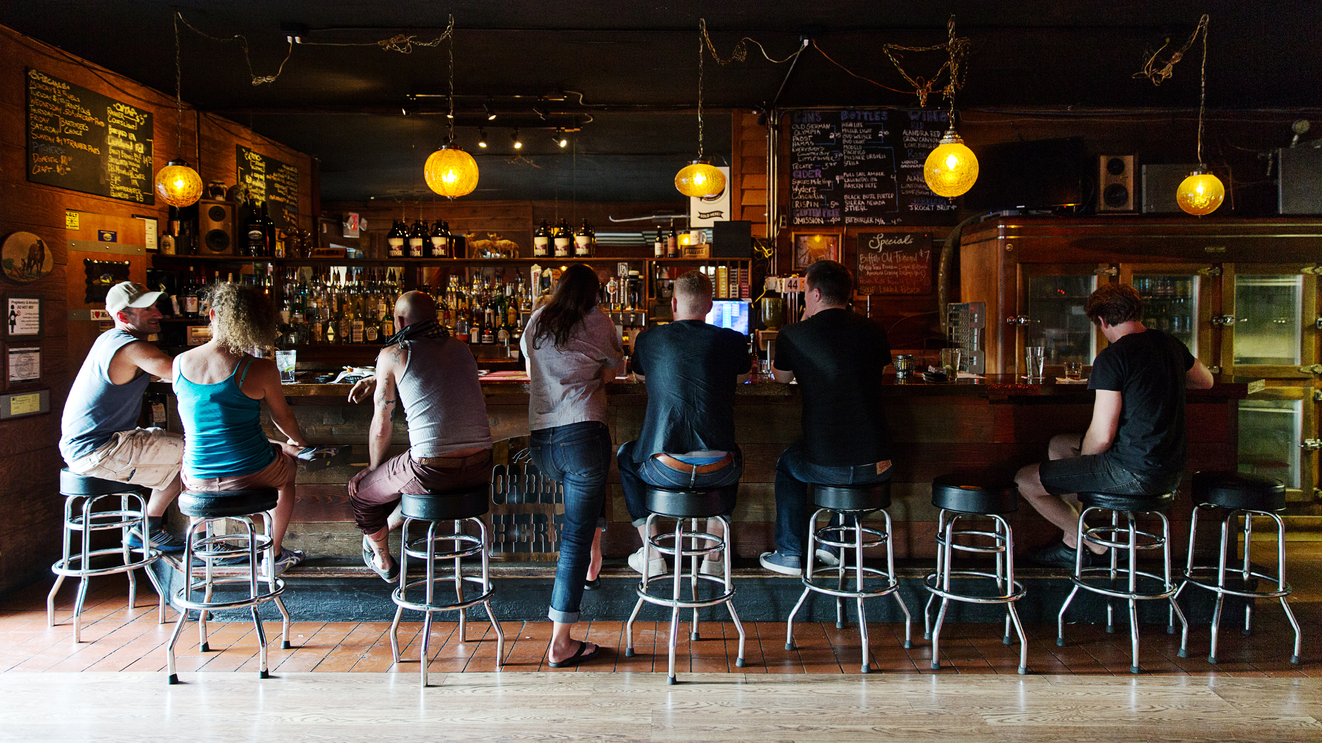
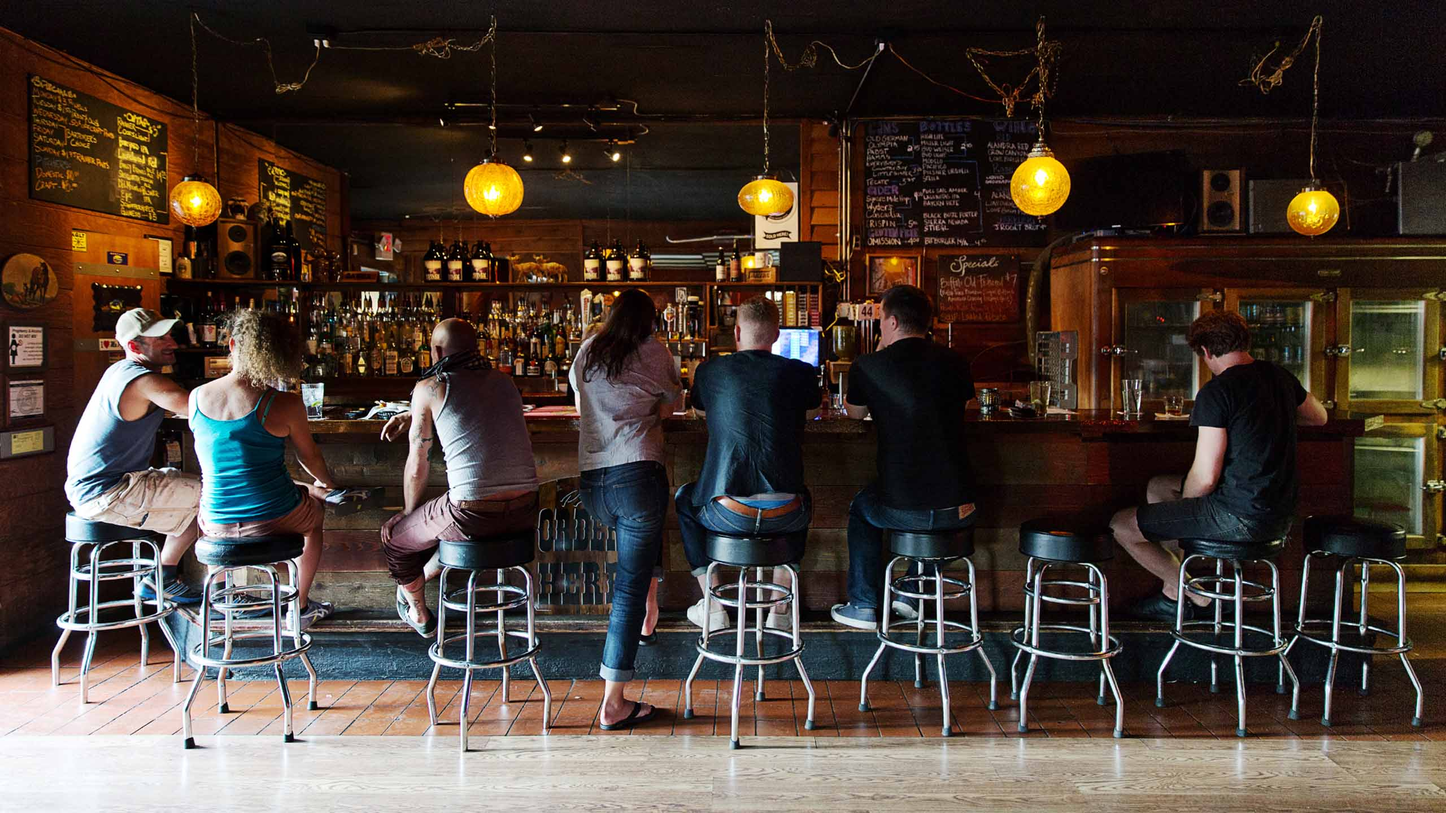
resize images and lower quality for load time, refactor css/html to abstract away styling from html

diff --git a/index.html b/index.html
@@ -63,7 +63,7 @@
       </div>
       <div class="row">
         <div class="col-md-12">
-          <button type="button" name="button" class="btn btn-default" style="width:100%; padding: 50px; font-size: 30px; font-family:Tiza; background-color: #fff; color:#000; text-shadow: 0 0 12px #c2e812; border-radius:0;">Click Here To Find Your Next Happy Hour!</button>
+          <button type="button" name="button" class="btn btn-default" id="call-out-button">Click Here To Find Your Next Happy Hour!</button>
         </div>
       </div>
       <div class="row text-center" id="content">

diff --git a/css/styles.css b/css/styles.css
@@ -76,3 +76,14 @@ h1 {
 .landing-icon {
   margin-bottom: 30px;
 }
+
+#call-out-button {
+  width:100%;
+  padding: 50px;
+  font-size: 30px;
+  font-family:Tiza;
+  background-color: #fff;
+  color:#000;
+  text-shadow: 0 0 12px #c2e812;
+  border-radius:0;
+}
